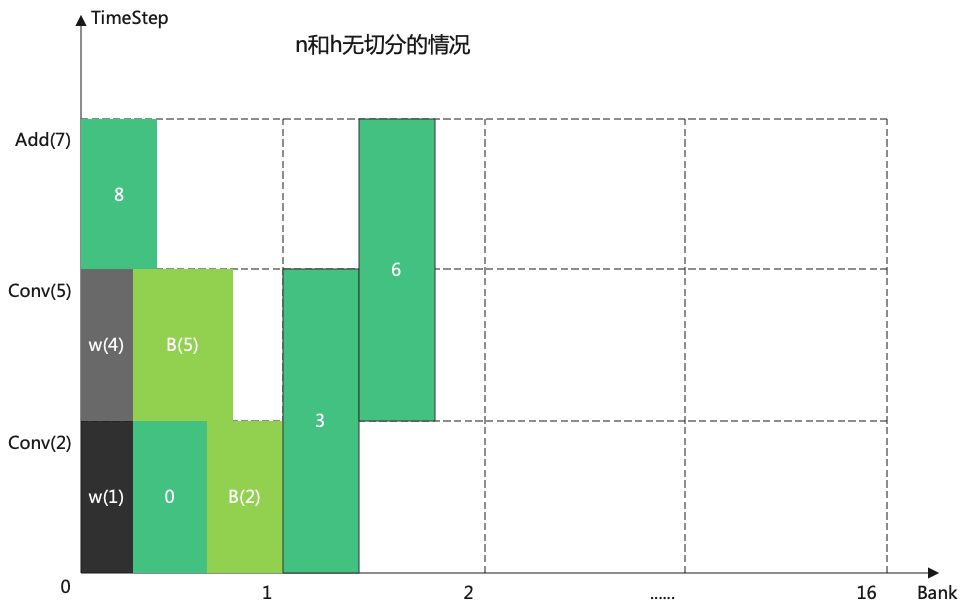
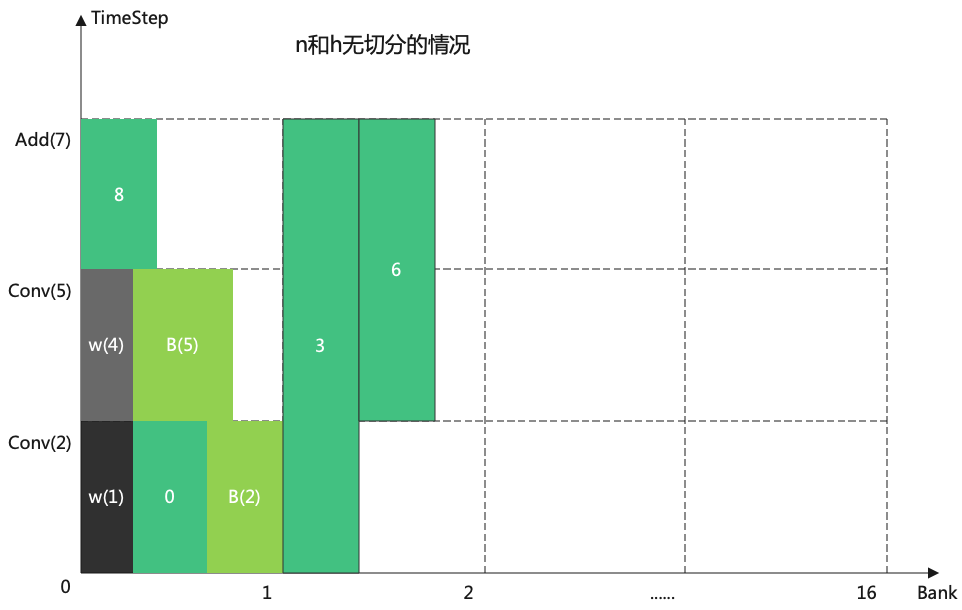
adjust timestep

Changed region(s): [[0.2807, 0.1869, 0.3742, 0.4672]]

diff --git a/lib/Dialect/Tpu/LayerGroup/GroupOps.cpp b/lib/Dialect/Tpu/LayerGroup/GroupOps.cpp
@@ -613,6 +613,54 @@ void GroupOps::set_lmem_size(group_lmem_t group_lmem) {
   }
 }
 
+void GroupOps::assign_timestep(group_lmem_t group_lmem) {
+  int64_t timestep = 0;
+  for (auto &linfo : *group_lmem) {
+    switch (linfo.type) {
+    case LMEM_OPERATION:
+      timestep++;
+      break;
+    case LMEM_TENSOR:
+      if (linfo.is_output) {
+        timestep++;
+      }
+      break;
+    default:
+      break;
+    }
+    linfo.timestep = timestep;
+  }
+}
+
+void GroupOps::adjust_lmem_id(group_lmem_t group_lmem, int64_t nsecs,
+                              int64_t hsecs) {
+  bool no_slice = (nsecs == 1 && hsecs == 1);
+  std::vector<int64_t> ops_v;
+  int idx = 0;
+  for (auto &linfo : *group_lmem) {
+    if (linfo.type == LMEM_WEIGHT && no_slice == false) {
+      // ajust weight end
+      linfo.end_id = -1;
+    }
+    if (linfo.type == LMEM_OPERATION) {
+      // get op pos
+      ops_v.push_back(idx);
+    }
+    idx++;
+  }
+  for (auto &linfo : *group_lmem) {
+    if (linfo.type == LMEM_WEIGHT || linfo.is_input) {
+      for (auto id : ops_v) {
+        auto &op_info = group_lmem->at(id);
+        if (op_info.timestep == linfo.timestep && op_info.id < linfo.start_id) {
+          linfo.start_id = op_info.id;
+          break;
+        }
+      }
+    }
+  }
+}
+
 group_lmem_t GroupOps::CreateGroupBySecs(int64_t start_idx, int64_t end_idx,
                                          int64_t nsecs, int64_t hsecs) {
   std::vector<Operation *> group_ops;
@@ -634,37 +682,15 @@ group_lmem_t GroupOps::CreateGroupBySecs(int64_t start_idx, int64_t end_idx,
     assert(nsecs == si.n.size());
     assert(hsecs == si.h.size());
   }
-  // ajust weight end
-  if (nsecs != 1 || hsecs != 1) {
-    for (auto &linfo : *group_lmem) {
-      if (linfo.type == LMEM_WEIGHT) {
-        linfo.end_id = -1;
-      }
-    }
-  }
+  // update timestep
+  assign_timestep(group_lmem);
+  adjust_lmem_id(group_lmem, nsecs, hsecs);
+
   // update lmem size and addr
   set_lmem_size(group_lmem);
   ret = assign_lmem_addr(group_lmem, nsecs, hsecs);
   if (ret == false) {
     return nullptr;
-  }
-  // TODO: if output in middle, how to set timestep
-  // assign timestep
-  int64_t timestep = 0;
-  for (auto &linfo : *group_lmem) {
-    switch (linfo.type) {
-    case LMEM_OPERATION:
-      timestep++;
-      break;
-    case LMEM_TENSOR:
-      if (linfo.is_output) {
-        timestep++;
-      }
-      break;
-    default:
-      break;
-    }
-    linfo.timestep = timestep;
   }
   return group_lmem;
 }
@@ -752,7 +778,7 @@ int64_t GroupOps::alloc_lmem(int64_t size) {
     int64_t addr = 0;
     for (auto it = allocated_lmems.begin(); it != allocated_lmems.end(); ++it) {
       if (addr + size <= it->first) {
-        auto pair = lmem_pair_t(addr, size);
+        auto pair = addr_pair_t(addr, size);
         allocated_lmems.insert(it, pair);
         return addr;
       }
@@ -769,7 +795,7 @@ int64_t GroupOps::alloc_lmem(int64_t size) {
     if (addr + size > bm168x->get_lmem_bytes()) {
       continue;
     }
-    auto pair = lmem_pair_t(addr, size);
+    auto pair = addr_pair_t(addr, size);
     allocated_lmems.push_back(pair);
     return addr;
   }

diff --git a/lib/Dialect/Tpu/LayerGroup/GroupOps.h b/lib/Dialect/Tpu/LayerGroup/GroupOps.h
@@ -17,7 +17,7 @@ typedef enum {
 
 typedef std::pair<int64_t, int64_t> slice_pair_t; // idx and slice
 typedef std::pair<int64_t, int64_t> group_pair_t; // start_idx, and end_idx
-typedef std::pair<int64_t, int64_t> lmem_pair_t;  // lmem addr, and size
+typedef std::pair<int64_t, int64_t> addr_pair_t;  // lmem addr, and size
 struct slice_info_t {
   std::vector<slice_pair_t> h; // h_idx and h_slice
   std::vector<slice_pair_t> n; // h_idx and n_slice
@@ -77,6 +77,8 @@ protected:
                                      lmem_type_t type = LMEM_ANY);
   void free_unuse_lmem(group_lmem_t group_lmem, int64_t op_id);
   void set_lmem_size(group_lmem_t group_lmem);
+  void assign_timestep(group_lmem_t group_lmem);
+  void adjust_lmem_id(group_lmem_t group_lmem, int64_t nsecs, int64_t hsecs);
   bool assign_lmem_addr(group_lmem_t group_lmem, int64_t nsecs, int64_t hsecs);
   int64_t alloc_lmem(int64_t size);
   void free_lmem(int64_t addr);
@@ -100,12 +102,12 @@ protected:
   std::vector<group_lmem_t> all_lmems;
   std::vector<mlir::Operation *> all_ops;
   std::vector<group_pair_t> groups;
-  std::list<lmem_pair_t> allocated_lmems;
+  std::list<addr_pair_t> allocated_lmems;
   int64_t n_align;
   bool no_more_try_secs;
   mlir::MLIRContext *ctx;
   Operation *current_op;
-  Block * body;
+  Block *body;
 };
 
 } // namespace tpu

diff --git a/design/layer_group.md b/design/layer_group.md
@@ -22,7 +22,7 @@
 
 ## Group划分
 
-#### 划分TimeStep
+#### 划分Mem周期
 
 如何划分group? 首先把每一层Layer需要的lmem罗列出来，大体可以归为三类：
 
@@ -34,7 +34,7 @@
 
 ![](./assets/lg_lmem.png)
 
-然后在配置timestep，配置方法如下：
+然后在配置周期，配置方法如下：
 
 ![](./assets/lg_timestep.png)
 
@@ -58,9 +58,15 @@
 
 #### 分叉Layer如何Group ?
 
+
+
 ![](./assets/lg_branch.png)
 
-如上场景，从输出Slice倒推到交汇的Conv，Slice采用**并集**。这就导致每个tensor不仅要记录当期的`h_idx`(可理解为偏移)和`h_slice`(可理解为长度)，还要记录Op需要的`h_idx`和`h_slice`。
+如上场景，从输出Slice倒推到交汇的Conv。
+
+**当前实现**：如果slice不一致则出错
+
+**未来实现**：Slice采用**并集**。这就导致每个tensor不仅要记录当期的`h_idx`(可理解为偏移)和`h_slice`(可理解为长度)，还要记录Op需要的`h_idx`和`h_slice`。
 
 
 
